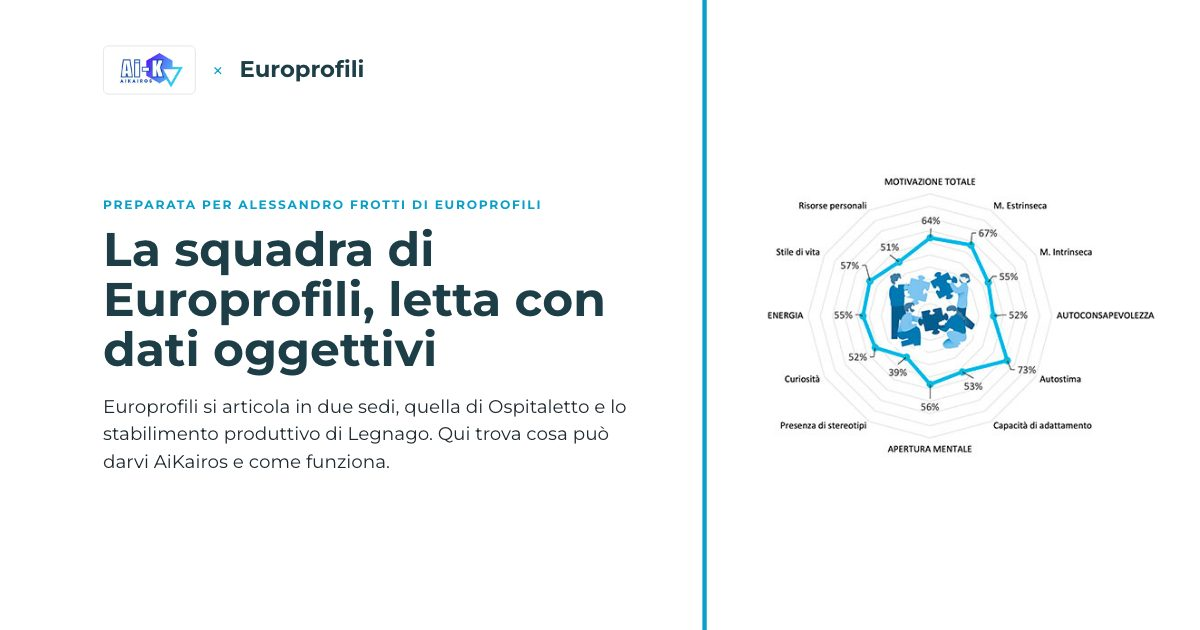
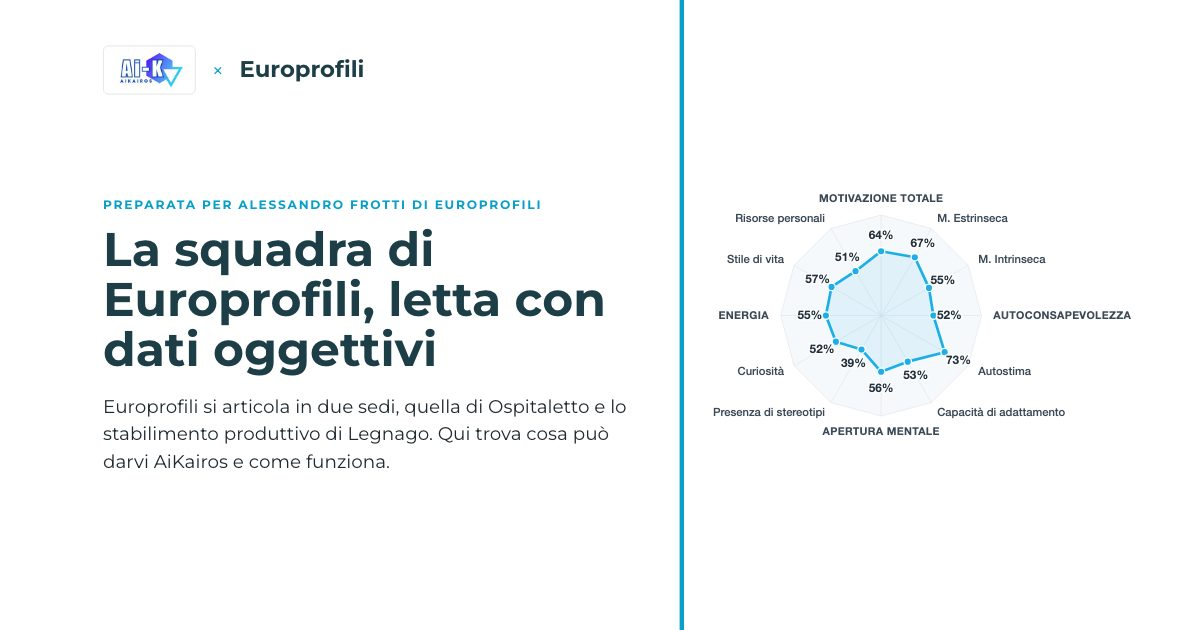
Take Flight: sample report chart redrawn as vector SVG (europrofili)

Changed region(s): [[0.555, 0.0, 0.9558, 1.0], [0.8325, 0.3016, 0.8633, 0.3317]]

diff --git a/takeflight/_src/template.html b/takeflight/_src/template.html
@@ -34,7 +34,7 @@ p{line-height:1.5}
 .cover .l{flex:1.1;padding:52px 52px 84px 72px;display:flex;flex-direction:column;min-width:0}
 .cover .m{margin:auto 0;padding-top:24px}
 .cover .sub{font-size:21px;margin-top:20px}
-.cover .r{flex:.9;background:#fff url(../assets/home.jpg) center/contain no-repeat;border-left:5px solid var(--red)}
+.cover .r{flex:.9;background:#fff url(../assets/report.svg) center/contain no-repeat;border-left:5px solid var(--red)}
 .mk{display:grid;grid-template-columns:repeat(3,1fr);gap:16px;margin-top:24px}
 .mk div{background:var(--card);border-top:4px solid var(--red);border-radius:0 0 8px 8px;padding:16px 18px}
 .mk b{display:block;font-size:21px;color:var(--slate)}
@@ -109,9 +109,9 @@ html.phone .band{font-size:14.5px;margin-top:12px}
 html.phone .lg div{font-size:18px;min-height:0}html.phone .lgn{font-size:15px;margin-top:12px}
 @media (max-height:700px){html.phone .mk div{padding:4px 7px}html.phone .mk b{font-size:13px}html.phone .mk span{font-size:11px;line-height:1.18;margin-top:1px}html.phone .idea{font-size:12px;margin-top:6px}html.phone .wk>div{padding:5px 10px}html.phone .wk b{font-size:14px;margin:0}html.phone .wk span{font-size:12px;line-height:1.24}html.phone .band{font-size:12px;margin-top:6px}html.phone .lg div{font-size:14px}html.phone .lgn{font-size:12px;margin-top:6px}}
 .talk .l{flex:0 0 400px;align-items:flex-start;text-align:left;padding:40px 36px;gap:16px}.talk h2{font-size:34px;line-height:1.12}.talk .why{font-size:18px;line-height:1.42}.talk .alt{font-size:16px;line-height:1.4;font-weight:600}
-.talk .rp{flex:1;background:#fff url(../assets/home.jpg) center/contain no-repeat}
+.talk .rp{flex:1;background:#fff url(../assets/report.svg) center/contain no-repeat}
 html.phone .talk .why{grid-column:1/3;font-size:14px;line-height:1.35}html.phone .talk .l{padding:16px}html.phone .talk .rp{flex:1;min-height:0}
-.cover .r{background-size:128% auto}html.phone .cover .r{flex-basis:34%;background-size:auto 118%}.talk .rp{background-size:96% auto}
+.cover .r,.talk .rp{background-size:contain;background-origin:content-box;padding:28px 24px}html.phone .cover .r{flex-basis:34%;padding:10px 12px}html.phone .talk .rp{padding:12px}
 {{LEAD_CSS}}</style>
 <script src="/site.js"{{CLARITY_ATTR}} async></script>
 </head>

diff --git a/takeflight/europrofili/index.html b/takeflight/europrofili/index.html
@@ -34,7 +34,7 @@ p{line-height:1.5}
 .cover .l{flex:1.1;padding:52px 52px 84px 72px;display:flex;flex-direction:column;min-width:0}
 .cover .m{margin:auto 0;padding-top:24px}
 .cover .sub{font-size:21px;margin-top:20px}
-.cover .r{flex:.9;background:#fff url(../assets/home.jpg) center/contain no-repeat;border-left:5px solid var(--red)}
+.cover .r{flex:.9;background:#fff url(../assets/report.svg) center/contain no-repeat;border-left:5px solid var(--red)}
 .mk{display:grid;grid-template-columns:repeat(3,1fr);gap:16px;margin-top:24px}
 .mk div{background:var(--card);border-top:4px solid var(--red);border-radius:0 0 8px 8px;padding:16px 18px}
 .mk b{display:block;font-size:21px;color:var(--slate)}
@@ -109,9 +109,9 @@ html.phone .band{font-size:14.5px;margin-top:12px}
 html.phone .lg div{font-size:18px;min-height:0}html.phone .lgn{font-size:15px;margin-top:12px}
 @media (max-height:700px){html.phone .mk div{padding:4px 7px}html.phone .mk b{font-size:13px}html.phone .mk span{font-size:11px;line-height:1.18;margin-top:1px}html.phone .idea{font-size:12px;margin-top:6px}html.phone .wk>div{padding:5px 10px}html.phone .wk b{font-size:14px;margin:0}html.phone .wk span{font-size:12px;line-height:1.24}html.phone .band{font-size:12px;margin-top:6px}html.phone .lg div{font-size:14px}html.phone .lgn{font-size:12px;margin-top:6px}}
 .talk .l{flex:0 0 400px;align-items:flex-start;text-align:left;padding:40px 36px;gap:16px}.talk h2{font-size:34px;line-height:1.12}.talk .why{font-size:18px;line-height:1.42}.talk .alt{font-size:16px;line-height:1.4;font-weight:600}
-.talk .rp{flex:1;background:#fff url(../assets/home.jpg) center/contain no-repeat}
+.talk .rp{flex:1;background:#fff url(../assets/report.svg) center/contain no-repeat}
 html.phone .talk .why{grid-column:1/3;font-size:14px;line-height:1.35}html.phone .talk .l{padding:16px}html.phone .talk .rp{flex:1;min-height:0}
-.cover .r{background-size:128% auto}html.phone .cover .r{flex-basis:34%;background-size:auto 118%}.talk .rp{background-size:96% auto}
+.cover .r,.talk .rp{background-size:contain;background-origin:content-box;padding:28px 24px}html.phone .cover .r{flex-basis:34%;padding:10px 12px}html.phone .talk .rp{padding:12px}
 </style>
 <script src="/site.js" async></script>
 </head>

diff --git a/takeflight/_src/report_svg.py b/takeflight/_src/report_svg.py
@@ -1,0 +1,44 @@
+"""report_svg.py: writes assets/report.svg, the sample report chart redrawn as vector from the values in takeflight.it home_takeflight-1.jpg (same 12 axes and percentages, no illustration)."""
+import math, os, sys
+AX = [('MOTIVAZIONE TOTALE',64,1),('M. Estrinseca',67,0),('M. Intrinseca',55,0),('AUTOCONSAPEVOLEZZA',52,1),('Autostima',73,0),('Capacità di adattamento',53,0),
+      ('APERTURA MENTALE',56,1),('Presenza di stereotipi',39,0),('Curiosità',52,0),('ENERGIA',55,1),('Stile di vita',57,0),('Risorse personali',51,0)]
+W,H,CX,CY,R = 960,540,480,272,188
+def pt(i,r): a=math.radians(i*30); return CX+r*math.sin(a), CY-r*math.cos(a)
+def poly(r): return ' '.join('%.1f,%.1f'%pt(i,r) for i in range(12))
+o=[f'<svg xmlns="http://www.w3.org/2000/svg" viewBox="0 0 {W} {H}" font-family="Helvetica Neue,Helvetica,Arial,sans-serif">','<rect width="100%" height="100%" fill="#fff"/>']
+for k in range(1,6): o.append(f'<polygon points="{poly(R*k/5)}" fill="{"#f6f9fc" if k%2 else "#fff"}" stroke="#dfe5ec" stroke-width="1.2"/>')
+for i in range(12): x,y=pt(i,R); o.append(f'<line x1="{CX}" y1="{CY}" x2="{x:.1f}" y2="{y:.1f}" stroke="#dfe5ec" stroke-width="1.2"/>')
+P=[pt(i,R*v/100) for i,(_,v,_) in enumerate(AX)]
+o.append('<polygon points="%s" fill="rgba(28,174,230,.10)" stroke="#1caee6" stroke-width="5" stroke-linejoin="round"/>'%' '.join('%.1f,%.1f'%p for p in P))
+for (x,y) in P: o.append(f'<circle cx="{x:.1f}" cy="{y:.1f}" r="7" fill="#1caee6" stroke="#fff" stroke-width="2.5"/>')
+for i,((lab,v,cap),(x,y)) in enumerate(zip(AX,P)):
+    a=math.radians(i*30); s,c=math.sin(a),-math.cos(a)
+    vx,vy=x+s*30,y+c*30+7
+    o.append(f'<text x="{vx:.1f}" y="{vy:.1f}" text-anchor="middle" font-size="22" font-weight="700" fill="#24323f" stroke="#fff" stroke-width="5" paint-order="stroke">{v}%</text>')
+    lx,ly=pt(i,R+22); anc='middle' if abs(s)<.2 else ('start' if s>0 else 'end'); ly+= 6+ (c*8 if abs(s)<.2 else 0)
+    o.append(f'<text x="{lx:.1f}" y="{ly:.1f}" text-anchor="{anc}" font-size="{20 if cap else 21}" font-weight="{700 if cap else 500}" letter-spacing="{.6 if cap else 0}" fill="#3c4a57">{lab}</text>')
+o.append('</svg>')
+# rough viewBox; run fit_viewbox() below (Playwright getBBox) for the exact one
+xs,ys=[],[]
+for i,(lab,v,cap) in enumerate(AX):
+    a=math.radians(i*30); s=math.sin(a); lx,ly=pt(i,R+22); w=len(lab)*(20 if cap else 21)*(0.62 if cap else 0.55)
+    x0,x1=(lx-w/2,lx+w/2) if abs(s)<.2 else ((lx,lx+w) if s>0 else (lx-w,lx)); xs+=[x0,x1]; ys+=[ly-24,ly+12]
+m=10; vb=f'{min(xs)-m:.0f} {min(ys)-m:.0f} {max(xs)-min(xs)+2*m:.0f} {max(ys)-min(ys)+2*m:.0f}'
+o[0]=o[0].replace(f'viewBox="0 0 {W} {H}"',f'viewBox="{vb}"'); o[1]='<rect x="-2000" y="-2000" width="5000" height="5000" fill="#fff"/>'
+out=sys.argv[1] if len(sys.argv)>1 else os.path.join(os.path.dirname(__file__),'..','assets','report.svg')
+open(out,'w',encoding='utf-8').write('\n'.join(o)); print('wrote',out)
+
+def fit_viewbox(path, margin=14):
+    import asyncio, re
+    from playwright.async_api import async_playwright
+    EXE='/Users/stevenkoja5/Library/Caches/ms-playwright/chromium_headless_shell-1248/chrome-headless-shell-mac-arm64/chrome-headless-shell'
+    async def m():
+        async with async_playwright() as p:
+            b=await p.chromium.launch(executable_path=EXE); pg=await b.new_page(); await pg.goto('file://'+os.path.abspath(path))
+            r=await pg.evaluate("(()=>{let a=1e9,c=1e9,e=-1e9,f=-1e9;for(const n of document.querySelectorAll('text,polygon')){const q=n.getBBox();a=Math.min(a,q.x);c=Math.min(c,q.y);e=Math.max(e,q.x+q.width);f=Math.max(f,q.y+q.height)}return [a,c,e,f]})()")
+            await b.close(); return r
+    a,c,e,f=asyncio.run(m()); t=open(path).read()
+    open(path,'w').write(re.sub(r'viewBox="[^"]*"',f'viewBox="{a-margin:.0f} {c-margin:.0f} {e-a+2*margin:.0f} {f-c+2*margin:.0f}"',t,1))
+if __name__=='__main__':
+    try: fit_viewbox(out)
+    except ImportError: print('playwright missing: viewBox left rough')

diff --git a/takeflight/_src/build.py b/takeflight/_src/build.py
@@ -8,7 +8,7 @@ import html, json, os, re, shutil, sys, unicodedata
 HERE = os.path.dirname(os.path.abspath(__file__)); ASSETS = os.path.join(HERE, '..', 'assets')
 TPL = open(os.path.join(HERE, 'template.html'), encoding='utf-8').read()
 BAD = re.compile(r'[—–:!]| - ')
-SHARED = ('logo_takeflight.jpg', 'home.jpg')
+SHARED = ('logo_takeflight.jpg', 'home.jpg', 'report.svg')
 CAL_ID = ''   # shared booking calendar (GHL widget id): set it and rebuild, the last slide shows it instead of the report image
 TAIL = 'Qui trova cosa può darvi AiKairos e come funziona.'
 GEN_SUB = 'In queste pagine trova cosa può darvi AiKairos per la squadra di {c} e come funziona.'
